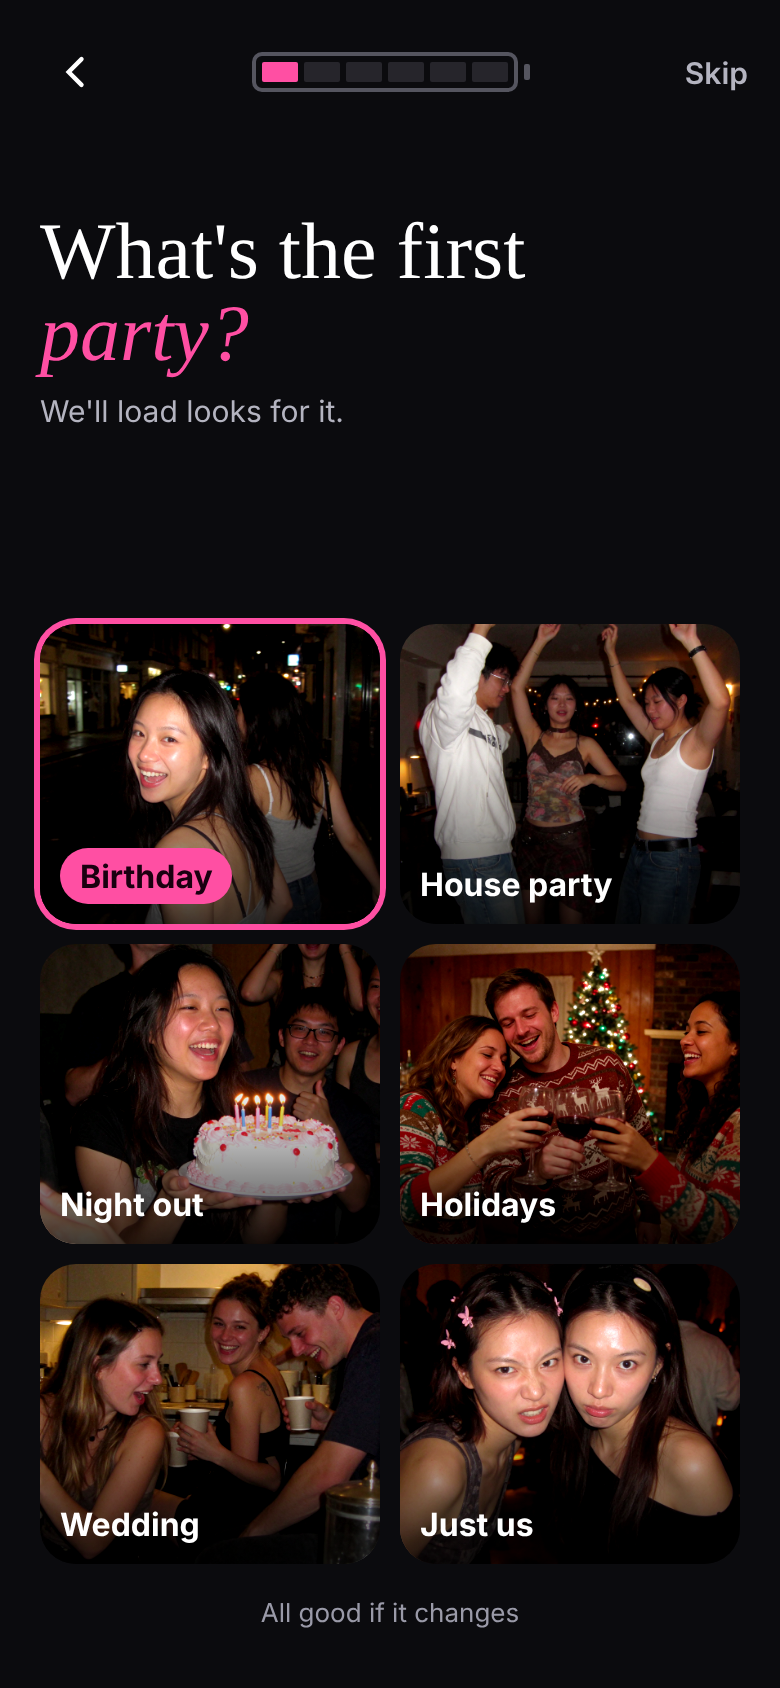
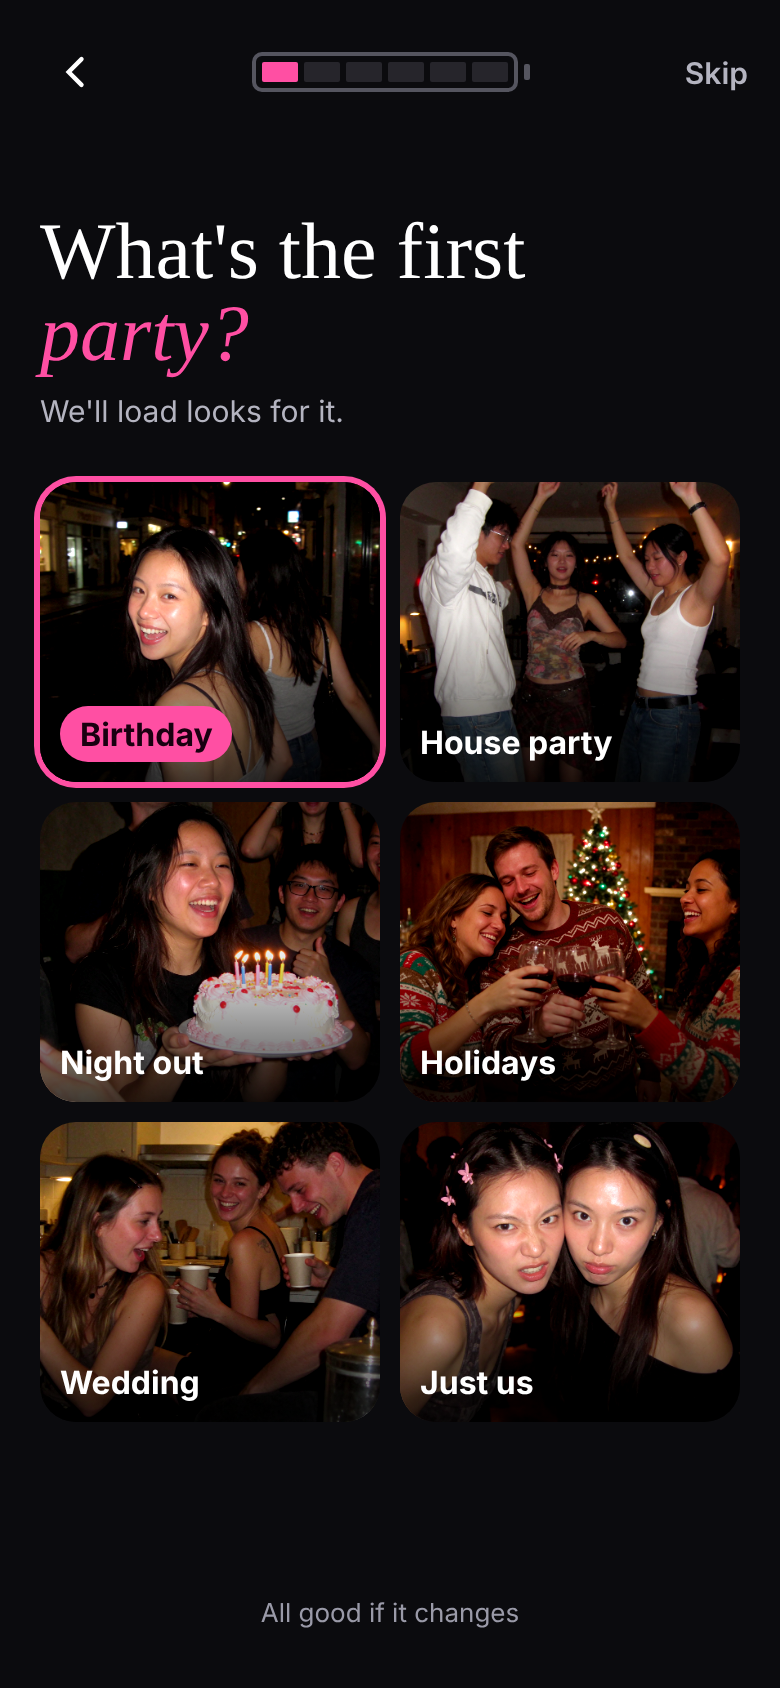
Paywall A picked; onboarding answers under the question; Digi vs Mobbin board; rule: always show Mobbin refs
Claude-Session: https://claude.ai/code/session_01Q8GFjX7YSQ9VZNLPt7ZZhG

diff --git a/docs/design/round3/gen.js b/docs/design/round3/gen.js
@@ -288,7 +288,7 @@ const occTile = (t, ph, sel) => `<div style="position:relative;height:132px;bord
 const Q1 = question(1, '', "What's the first", 'party?', 'We load the looks for it.', `<div style="display:grid;grid-template-columns:1fr 1fr;gap:10px">${[['Birthday', 'r5.png', true], ['House party', 'r1.png'], ['Night out', 'r2.png'], ['Holidays', 'r6.png'], ['Wedding', 'r4.png'], ['Just us', 'selfie.png']].map(([t, p, sel]) => occTile(t, p, sel)).join('')}</div>`);
 const bigRow = (icon, t, sub) => optRow(icon, t, sub).replace('min-height:68px', 'min-height:104px').replace('width:40px;height:40px;border-radius:12px;background:#26252B;display:flex;align-items:center;justify-content:center;font-size:20px', 'width:60px;height:60px;border-radius:16px;background:#26252B;display:flex;align-items:center;justify-content:center;font-size:30px').replace('font-size:17px;font-weight:600', 'font-size:19px;font-weight:700');
 const Q2 = question(2, 'Birthday looks, loaded 🎂', 'How often are you', 'out?', "We'll suggest the plan that fits. No pressure.", `<div style="display:flex;flex-direction:column;gap:12px">${bigRow('🪩', 'Every weekend', 'Most Fridays and Saturdays')}${bigRow('📅', 'A couple of times a month', 'Dinners, house parties')}${bigRow('🎉', 'Only big nights', 'Birthdays, holidays, weddings')}</div>`);
-const photoRow = (ph, t, sub, sel) => `<div style="position:relative;height:160px;border-radius:20px;overflow:hidden;${sel ? 'box-shadow:0 0 0 3px #FF4FA3' : ''}"><img src="${img(ph)}" style="width:100%;height:100%;object-fit:cover;object-position:50% 35%;filter:contrast(1.15) saturate(1.1)"><div style="position:absolute;inset:0;background:linear-gradient(90deg,rgba(0,0,0,.8),rgba(0,0,0,0) 70%)"></div><div style="position:absolute;left:18px;bottom:16px"><div style="font-size:20px;font-weight:700">${t}</div><div style="font-size:14px;color:#E4E4EA;margin-top:2px">${sub}</div></div></div>`;
+const photoRow = (ph, t, sub, sel) => `<div style="position:relative;height:172px;border-radius:20px;overflow:hidden;${sel ? 'box-shadow:0 0 0 3px #FF4FA3' : ''}"><img src="${img(ph)}" style="width:100%;height:100%;object-fit:cover;object-position:50% 35%;filter:contrast(1.15) saturate(1.1)"><div style="position:absolute;inset:0;background:linear-gradient(90deg,rgba(0,0,0,.8),rgba(0,0,0,0) 70%)"></div><div style="position:absolute;left:18px;bottom:16px"><div style="font-size:20px;font-weight:700">${t}</div><div style="font-size:14px;color:#E4E4EA;margin-top:2px">${sub}</div></div></div>`;
 const Q3 = question(3, 'Noted.', "Who's in your", 'pics?', 'We set your camera up for it.', `<div style="display:flex;flex-direction:column;gap:12px">${photoRow('selfie.png', 'Mostly me', 'Front flash first')}${photoRow('r2.png', 'Me + a few friends', 'Strip mode first', true)}${photoRow('r1.png', 'The whole group', 'Wide 0.5× first')}</div>`);
 const Q4 = question(4, 'Strip mode it is.', 'How did you find', 'Digi?', 'One tap. It helps a tiny team a lot.', `<div style="display:flex;flex-direction:column;gap:10px">${[['🎵', 'TikTok'], ['📸', 'Instagram'], ['💬', 'A friend'], ['🔎', 'App Store search'], ['✨', 'Somewhere else']].map(([i, t]) => optRow(i, t, '')).join('')}</div>`);
 function ready() {
@@ -333,21 +333,21 @@ function paywallPro(glass) {
 // ---------- round 6: 10/10 pass (Mobbin refs in docs/design/research/mobbin/) ----------
 const PINKSEL = 'background:#FF4FA3;color:#1A0010;border-color:#FF4FA3';
 const bars = (n) => `<svg width="34" height="26" viewBox="0 0 34 26">${[0, 1, 2, 3].map((i) => `<rect x="${i * 9}" y="${18 - i * 6}" width="6" height="${8 + i * 6}" rx="1.5" fill="${i < n ? '#FF4FA3' : '#33333B'}"/>`).join('')}</svg>`;
-const tile6 = (lead, t, sub, sel) => `<div style="display:flex;align-items:center;gap:14px;min-height:96px;padding:12px 16px;border-radius:18px;border:2px solid #24242B;background:#17171C;${sel ? PINKSEL : ''}">${lead ? `<span style="width:44px;display:flex;justify-content:center">${sel ? lead.replaceAll('#FF4FA3', '#1A0010').replaceAll('#33333B', 'rgba(26,0,16,.25)') : lead}</span>` : ''}<div style="flex-grow:1"><div style="font-size:18px;font-weight:700">${t}</div>${sub ? `<div style="font-size:14px;margin-top:2px;${sel ? 'color:#3D0A24' : 'color:#B4B4C0'}">${sub}</div>` : ''}</div></div>`;
+const tile6 = (lead, t, sub, sel) => `<div style="display:flex;align-items:center;gap:14px;min-height:112px;padding:12px 16px;border-radius:18px;border:2px solid #24242B;background:#17171C;${sel ? PINKSEL : ''}">${lead ? `<span style="width:44px;display:flex;justify-content:center">${sel ? lead.replaceAll('#FF4FA3', '#1A0010').replaceAll('#33333B', 'rgba(26,0,16,.25)') : lead}</span>` : ''}<div style="flex-grow:1"><div style="font-size:18px;font-weight:700">${t}</div>${sub ? `<div style="font-size:14px;margin-top:2px;${sel ? 'color:#3D0A24' : 'color:#B4B4C0'}">${sub}</div>` : ''}</div></div>`;
 function q6(step, total, reply, title, pinkWord, helper, body, foot) {
   return `<div class="screen">${qTop(step).replace(battery(step), battery(step, total))}<div style="padding:16px 20px 0;flex-grow:1;display:flex;flex-direction:column">
     <div style="font-size:15px;font-weight:600;color:#FF7DBE;min-height:20px;margin-bottom:6px">${reply}</div>
     <div class="serif" style="font-size:40px;line-height:1.02">${title} <span class="pink">${pinkWord}</span></div>
     <div style="font-size:15px;color:#B4B4C0;margin-top:8px">${helper}</div>
-    <div style="flex-grow:1;min-height:24px"></div><div>${body}</div>
+    <div style="margin-top:26px">${body}</div><div style="flex-grow:1"></div>
     <div style="font-size:13px;color:#9A9AA8;text-align:center;padding:16px 0 30px">${foot || 'Tap one to keep going'}</div></div></div>`;
 }
 const occ6 = (t, ph, sel) => occTile(t, ph, false).replace('<span style="position:absolute;left:12px;bottom:10px;font-size:16px;font-weight:700">', `<span style="position:absolute;left:10px;bottom:10px;font-size:16px;font-weight:700;${sel ? 'padding:4px 10px;border-radius:999px;background:#FF4FA3;color:#1A0010' : ''}">`).replace('position:relative;height:132px;border-radius:18px;overflow:hidden;', `position:relative;height:150px;border-radius:18px;overflow:hidden;${sel ? 'box-shadow:0 0 0 3px #FF4FA3;' : ''}`);
 const R6_Q1 = q6(1, 6, '', "What's the first", 'party?', "We'll load looks for it.", `<div style="display:grid;grid-template-columns:1fr 1fr;gap:10px">${[['Birthday', 'r5.png', true], ['House party', 'r1.png'], ['Night out', 'r2.png'], ['Holidays', 'r6.png'], ['Wedding', 'r4.png'], ['Just us', 'selfie.png']].map(([t, ph, sel]) => occ6(t, ph, sel)).join('')}</div>`, 'All good if it changes');
 const R6_Q2 = q6(2, 6, 'Birthday looks, loaded 🎂', 'How often are you', 'out?', 'So we suggest the plan that fits.', `<div style="display:flex;flex-direction:column;gap:12px">${tile6(bars(4), 'Every weekend', 'Fridays, Saturdays, repeat')}${tile6(bars(2), 'A couple of times a month', 'Dinners and house parties', true)}${tile6(bars(1), 'Only big nights', 'Birthdays, holidays, weddings')}</div>`);
 const R6_Q3 = q6(3, 6, 'Nice.', "Who's in your", 'pics?', 'We set up your camera for it.', `<div style="display:flex;flex-direction:column;gap:12px">${photoRow('selfie.png', 'Mostly me', 'Front flash first')}${photoRow('r2.png', 'Me + a few friends', 'Strip mode first', true)}${photoRow('r1.png', 'The whole group', 'Wide 0.5× first')}</div>`);
-const R6_G = q6(4, 6, 'Strip mode it is.', 'Which describes', 'you?', 'Picks your sample photos and first looks. Never shown to anyone.', `<div style="display:flex;flex-direction:column;gap:10px">${['Woman', 'Man', 'Non-binary', 'Prefer not to say'].map((t, i) => tile6('', t, '', i === 0).replace('min-height:96px', 'min-height:72px')).join('')}</div>`, 'Optional · change it any time in Settings');
-const R6_Q4 = q6(5, 6, 'Got it.', 'How did you find', 'Digi?', 'One tap. It helps a tiny team a lot.', `<div style="display:grid;grid-template-columns:1fr 1fr;gap:10px">${[['🎵', 'TikTok'], ['📸', 'Instagram'], ['💬', 'A friend'], ['🔎', 'App Store'], ['▶', 'YouTube'], ['✨', 'Other']].map(([i, t]) => `<div style="height:122px;border-radius:18px;background:#17171C;border:2px solid #24242B;display:flex;flex-direction:column;align-items:center;justify-content:center;gap:8px"><span style="font-size:28px">${i}</span><span style="font-size:16px;font-weight:700">${t}</span></div>`).join('')}</div>`);
+const R6_G = q6(4, 6, 'Strip mode it is.', 'Which describes', 'you?', 'Picks your sample photos and first looks. Never shown to anyone.', `<div style="display:flex;flex-direction:column;gap:10px">${['Woman', 'Man', 'Non-binary', 'Prefer not to say'].map((t, i) => tile6('', t, '', i === 0).replace('min-height:112px', 'min-height:84px')).join('')}</div>`, 'Optional · change it any time in Settings');
+const R6_Q4 = q6(5, 6, 'Got it.', 'How did you find', 'Digi?', 'One tap. It helps a tiny team a lot.', `<div style="display:grid;grid-template-columns:1fr 1fr;gap:10px">${[['🎵', 'TikTok'], ['📸', 'Instagram'], ['💬', 'A friend'], ['🔎', 'App Store'], ['▶', 'YouTube'], ['✨', 'Other']].map(([i, t]) => `<div style="height:132px;border-radius:18px;background:#17171C;border:2px solid #24242B;display:flex;flex-direction:column;align-items:center;justify-content:center;gap:8px"><span style="font-size:28px">${i}</span><span style="font-size:16px;font-weight:700">${t}</span></div>`).join('')}</div>`);
 const R6_READY = ready().replace(qTop(5).replace('Skip', ''), qTop(6).replace(battery(6), battery(6, 6)).replace('Skip', ''));
 
 // Paywall A: "their prints" (Photoroom fan + Snapchat rows + FocusFlight tiles/CTA + Headspace/Jomo date line)

diff --git a/STATUS.md b/STATUS.md
@@ -18,6 +18,9 @@ Last updated: **Nov 17, 2026**. This repo moved here from jjman2321/MMTEST `digi
 | Nov 17 | UI round 3 picks: "Yeah not bad except paywall too much white space". Took the recommended option on all 6: **pink body**; **big pixel DIGI on top** (body reads "DIGI-05"); **MODE + T/W** buttons (no REC); **mode tabs PHOTO · STRIP · ✦ AI · LIVE ✦ + a look swatch** by the shutter; **"Tap it." onboarding** (Tap it → Occasion → How did you find us → Camera; age + consent at the first AI tap); **paywall = pixel DIGI + their own digi** in the pink camera. Designs: `docs/design/round3/`. |
 | Nov 17 | Logo: "yes the first 1 but make sure the D doesnt look like an o". **The owner's chunky concept DIGI, in pink**, with a flat-sided D. |
 | Nov 17 | "timeline in pawayal is useless". **No trial timeline on the paywall.** The dated line under the button stays ("Then $39.99/year. Not charged until {date}. Cancel anytime."), plus the reminder push. |
+| Nov 17 | Paywall: "yeh a is the best". **Paywall A "Their prints"** (`docs/design/round3/png/r6-pay-a.png`): their digi as the middle print, 3 feature rows, yearly/weekly tiles (selected = white), white CTA with pink glow, "Reminder on {day 2} · first charge {day 3}", auto-renew line, Party Pack link. Plus the separate **out-of-digis sheet** (`r6-pack.png`). Audit: `round3/AUDIT-r6.md`. |
+| Nov 17 | Onboarding: "i dont like onboarding why is it down lol". **Answers sit right under the question**, not at the bottom; bigger tiles. Flow: Tap it → occasion → how often → who → gender (optional) → found us → ready → camera (`round3/r6-onboarding-flow.jpg`). |
+| Nov 17 | "alsywa refence mobbin init". **Every design shown to the owner sits next to its Mobbin reference** (e.g. `round3/r6-vs-mobbin.jpg`). |
 | Nov 17 | Interview Q1 (look and feel): answered by UI round 3 (rows above). |
 | Nov 17 | Q2 "6 free + 2 AI". **Free looks:** Digicam, Film 400, Y2K Glow, Club B&W, Paparazzi, Xmas Lights (NYE Glitter from Dec 26). **AI:** Flash Re-light ✦ and Live digi ✦. Strip is a mode, not a look. |
 | Nov 17 | Q3 "A/B test". **Paywall A/B:** Yearly $39.99 + 3-day trial pre-selected vs Weekly $6.99 + 3-day trial pre-selected; judge on revenue per install at 30/90 days. Party Pack $5.99 link on both. |

diff --git a/CLAUDE.md b/CLAUDE.md
@@ -63,4 +63,5 @@ A medical student, founder of Grasp Labs LLC, with limited coding experience.
 ## Working style
 - Before a big feature, write a short plan (files, data, how to test) in chat and wait for his go.
 - Prefer simple, boring code. When something fails, show the error and the fix, then explain it simply.
+- **Always show the Mobbin reference next to each design** (owner, Nov 17: "alsywa refence mobbin init"). Save references in `docs/design/research/mobbin/`.
 - Check UI in the web preview: `npx expo start --web`, then Playwright screenshots at 390×844. Compare against the picked design in `docs/design/`.
